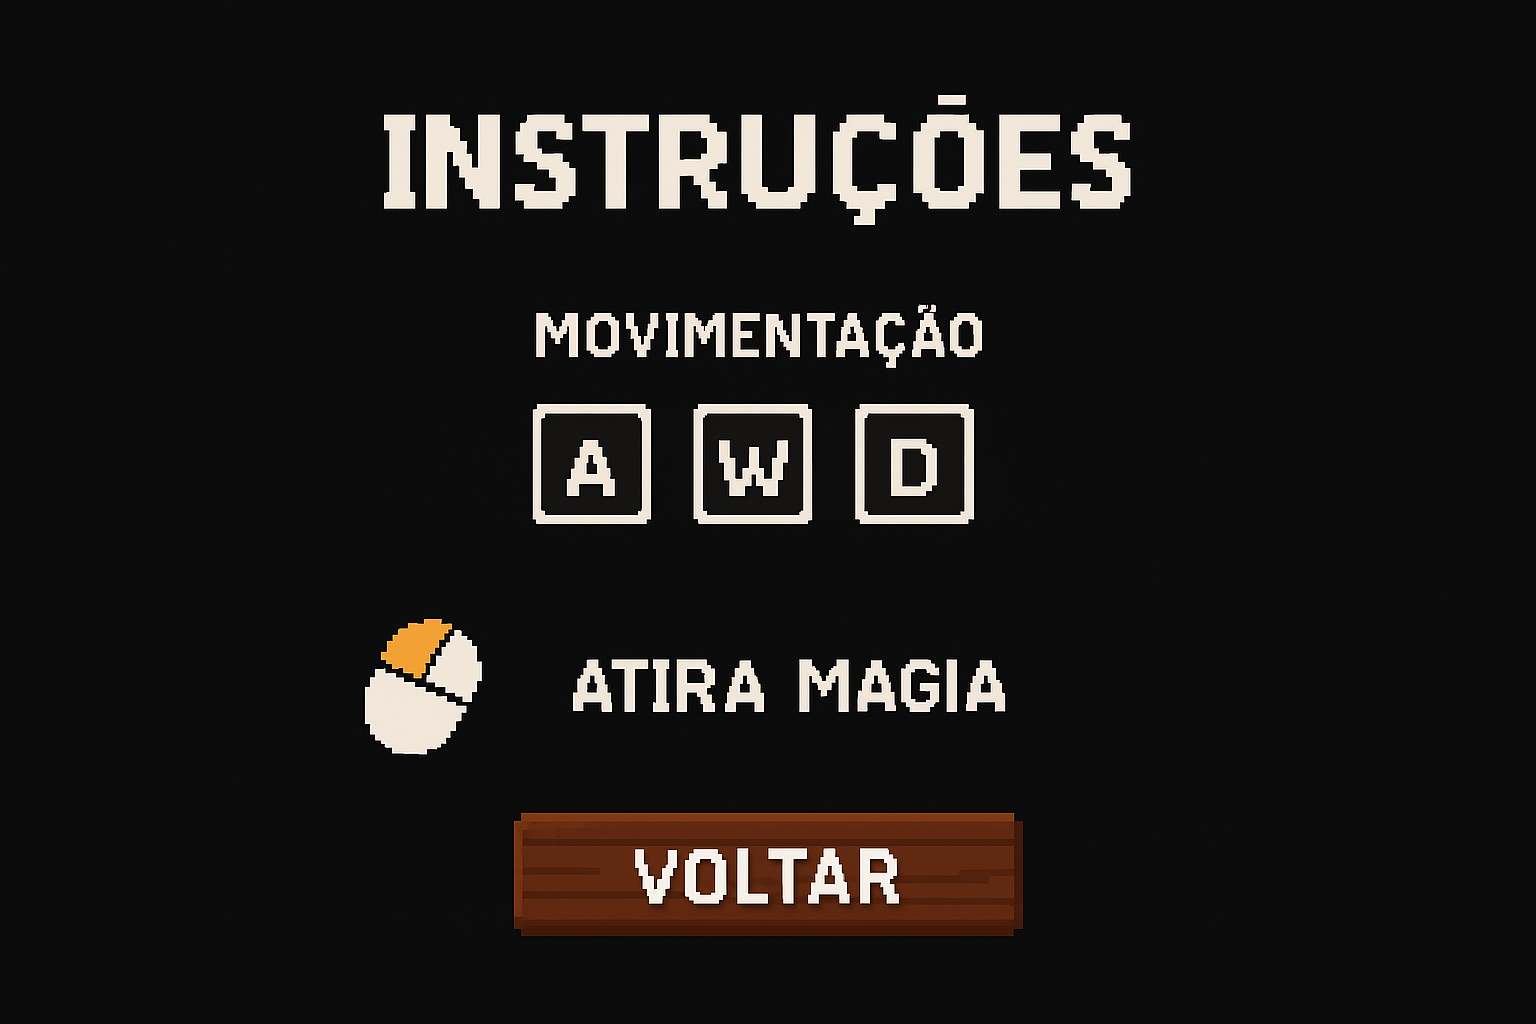
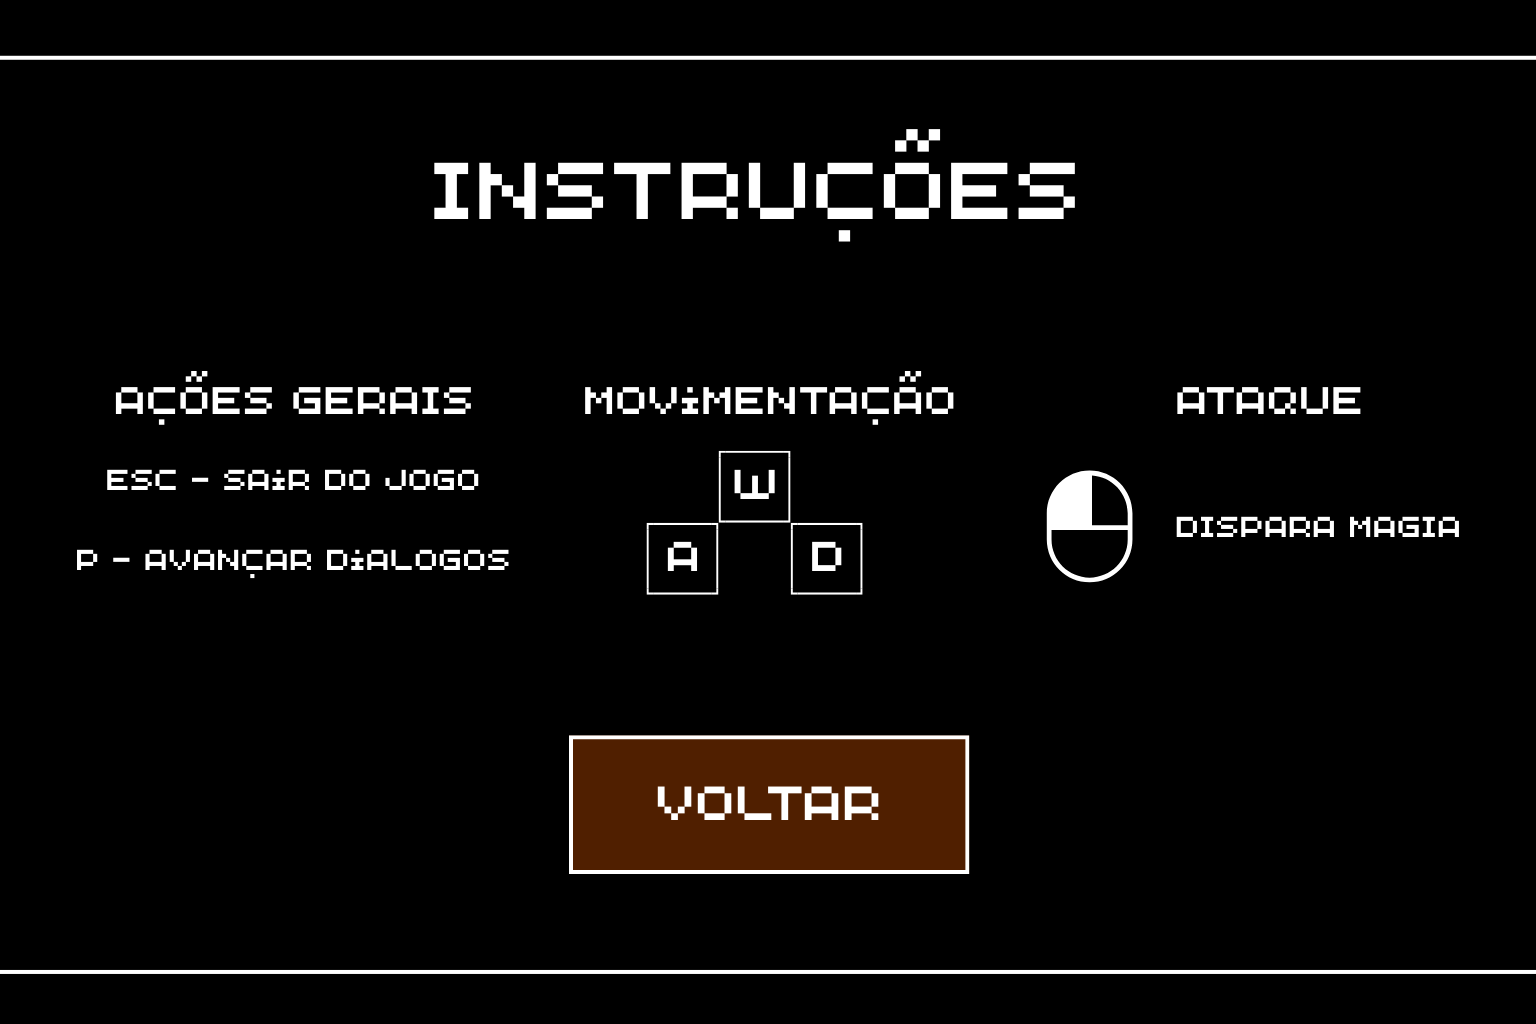
Mudança da tela de instruções

diff --git a/The Revenge of Grigori/The Revenge of Grigori.c b/The Revenge of Grigori/The Revenge of Grigori.c
@@ -113,7 +113,7 @@ int golems_spawnados = 0;
 int timer_fase_3 = 0;
 
 // Inimigos da fase do vulcão
-#define FREQUENCIA_SPAWN_GOLEM_LAVA (60 * 0.7) 
+#define FREQUENCIA_SPAWN_GOLEM_LAVA (60) 
 #define TEMPO_SPAWN_MAXIMO_FASE_4 (60 * 15)  
 #define TOTAL_GOLEMS_FASE_4 15
 
